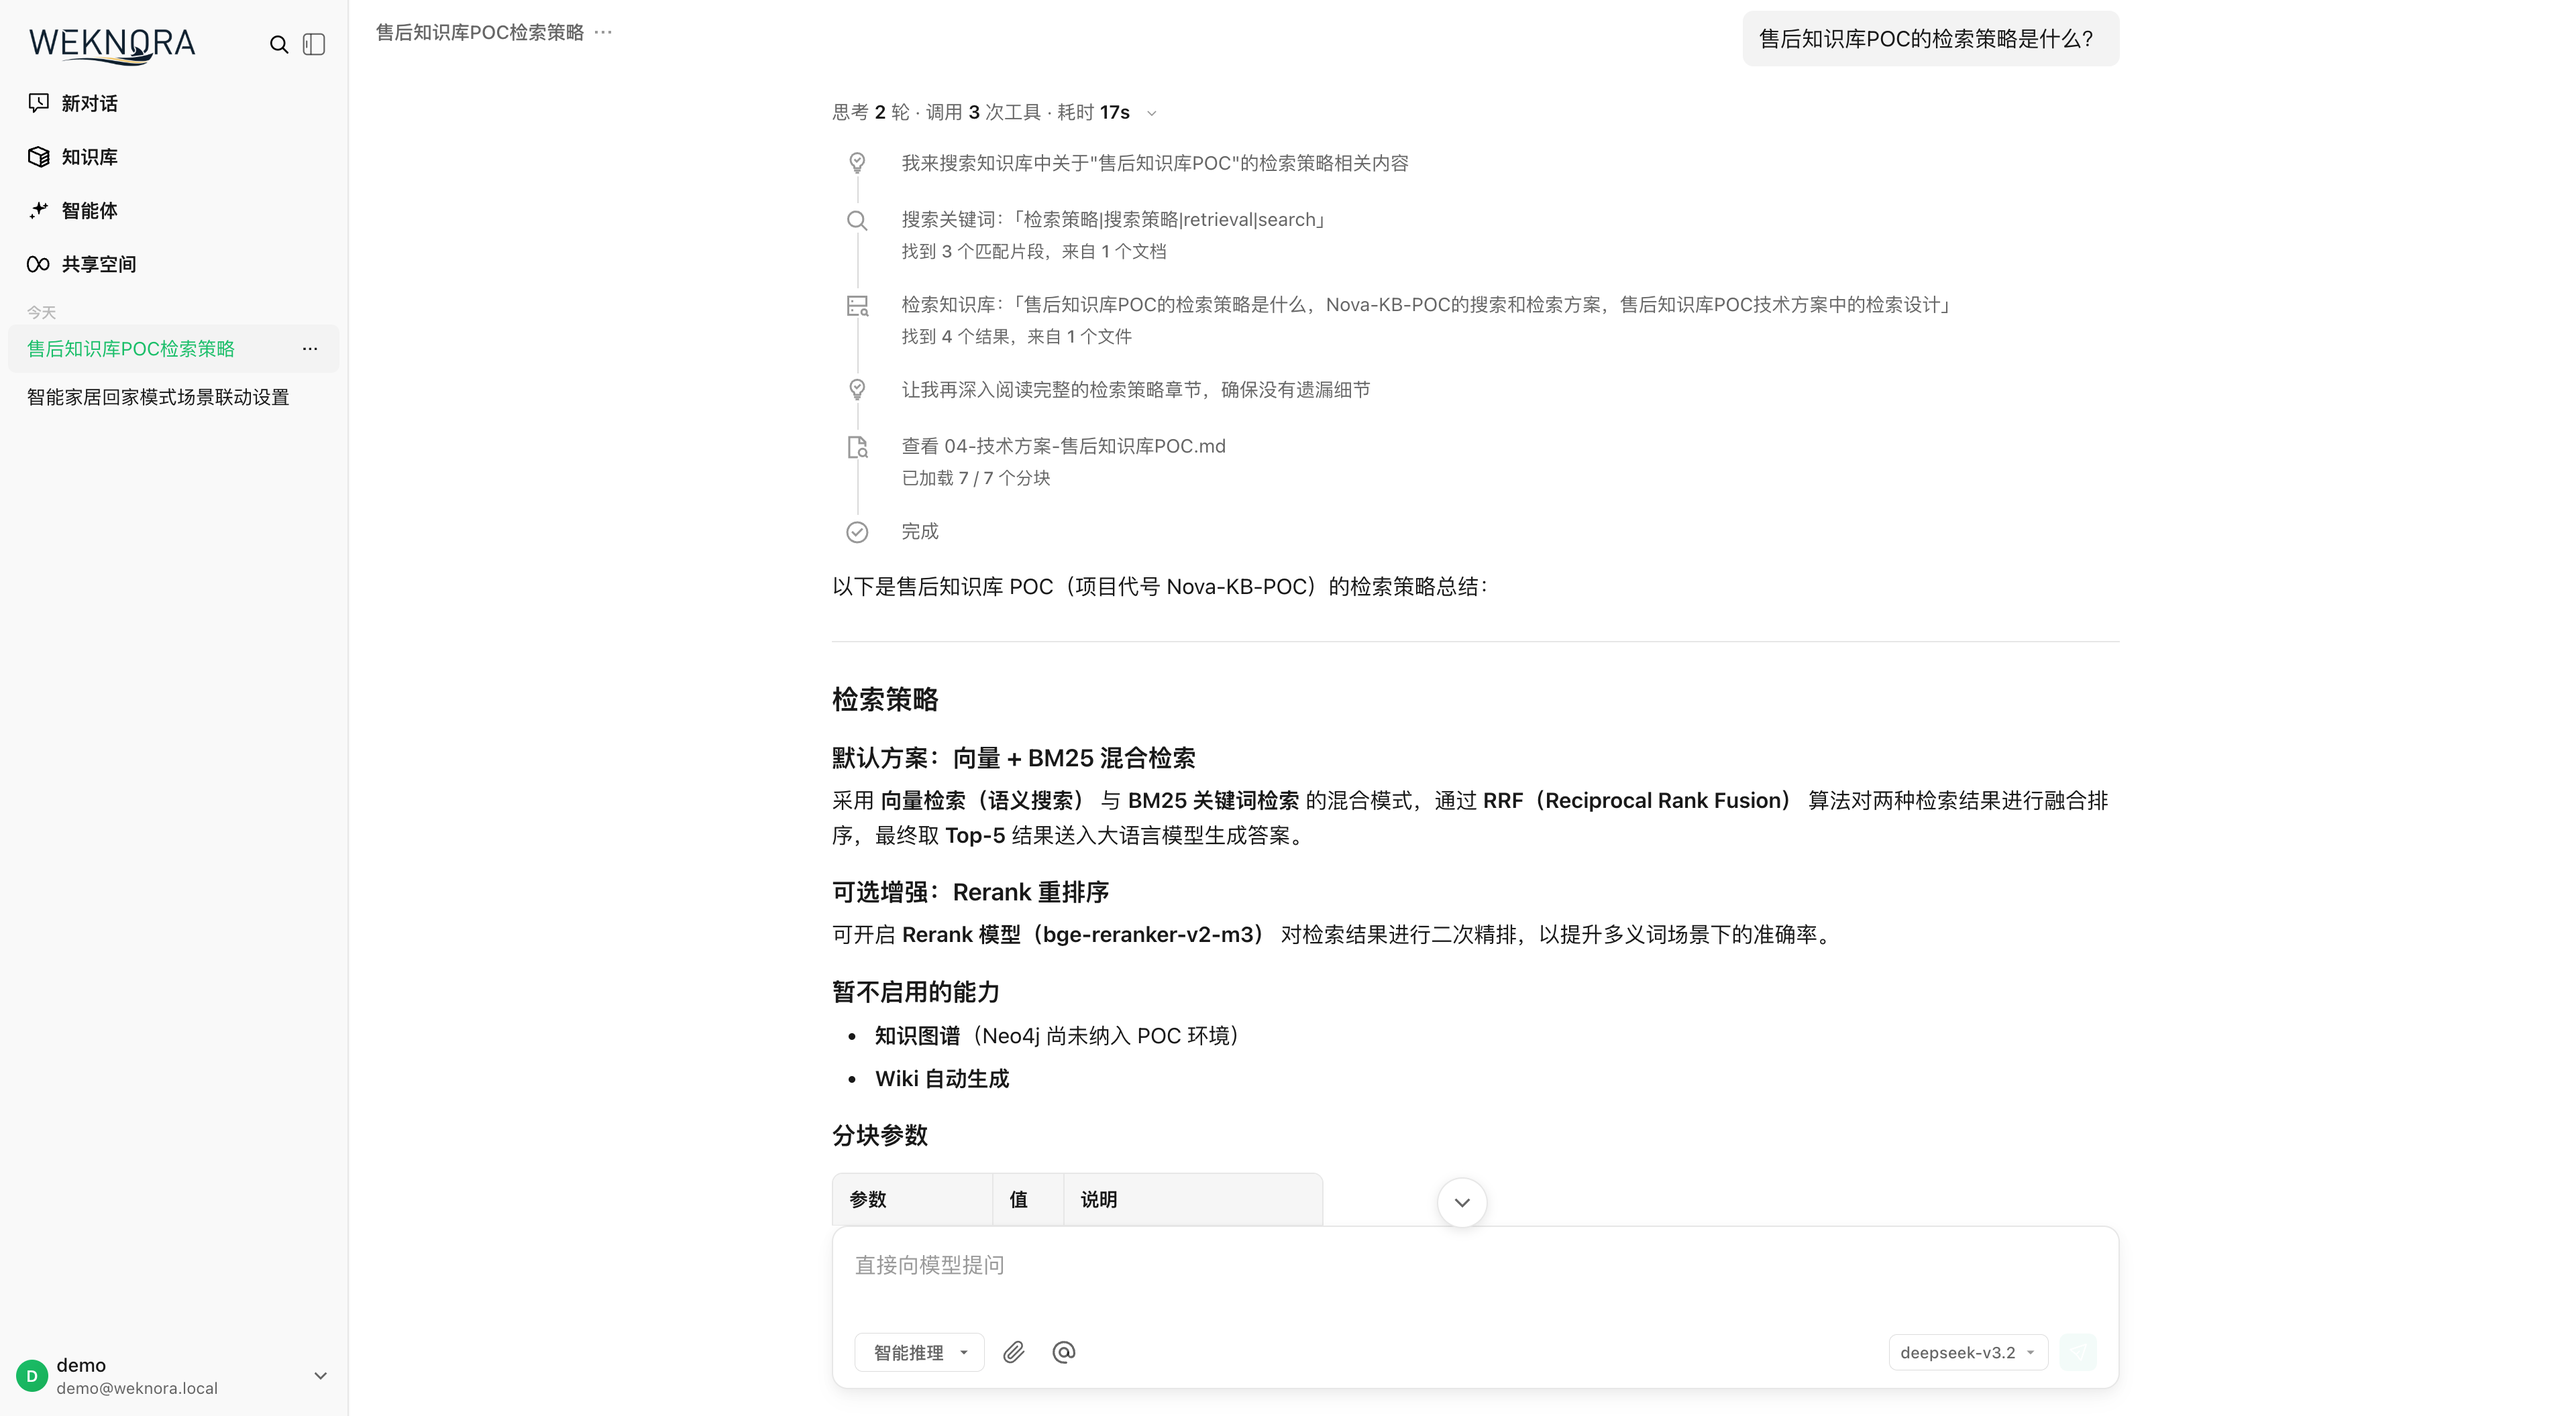
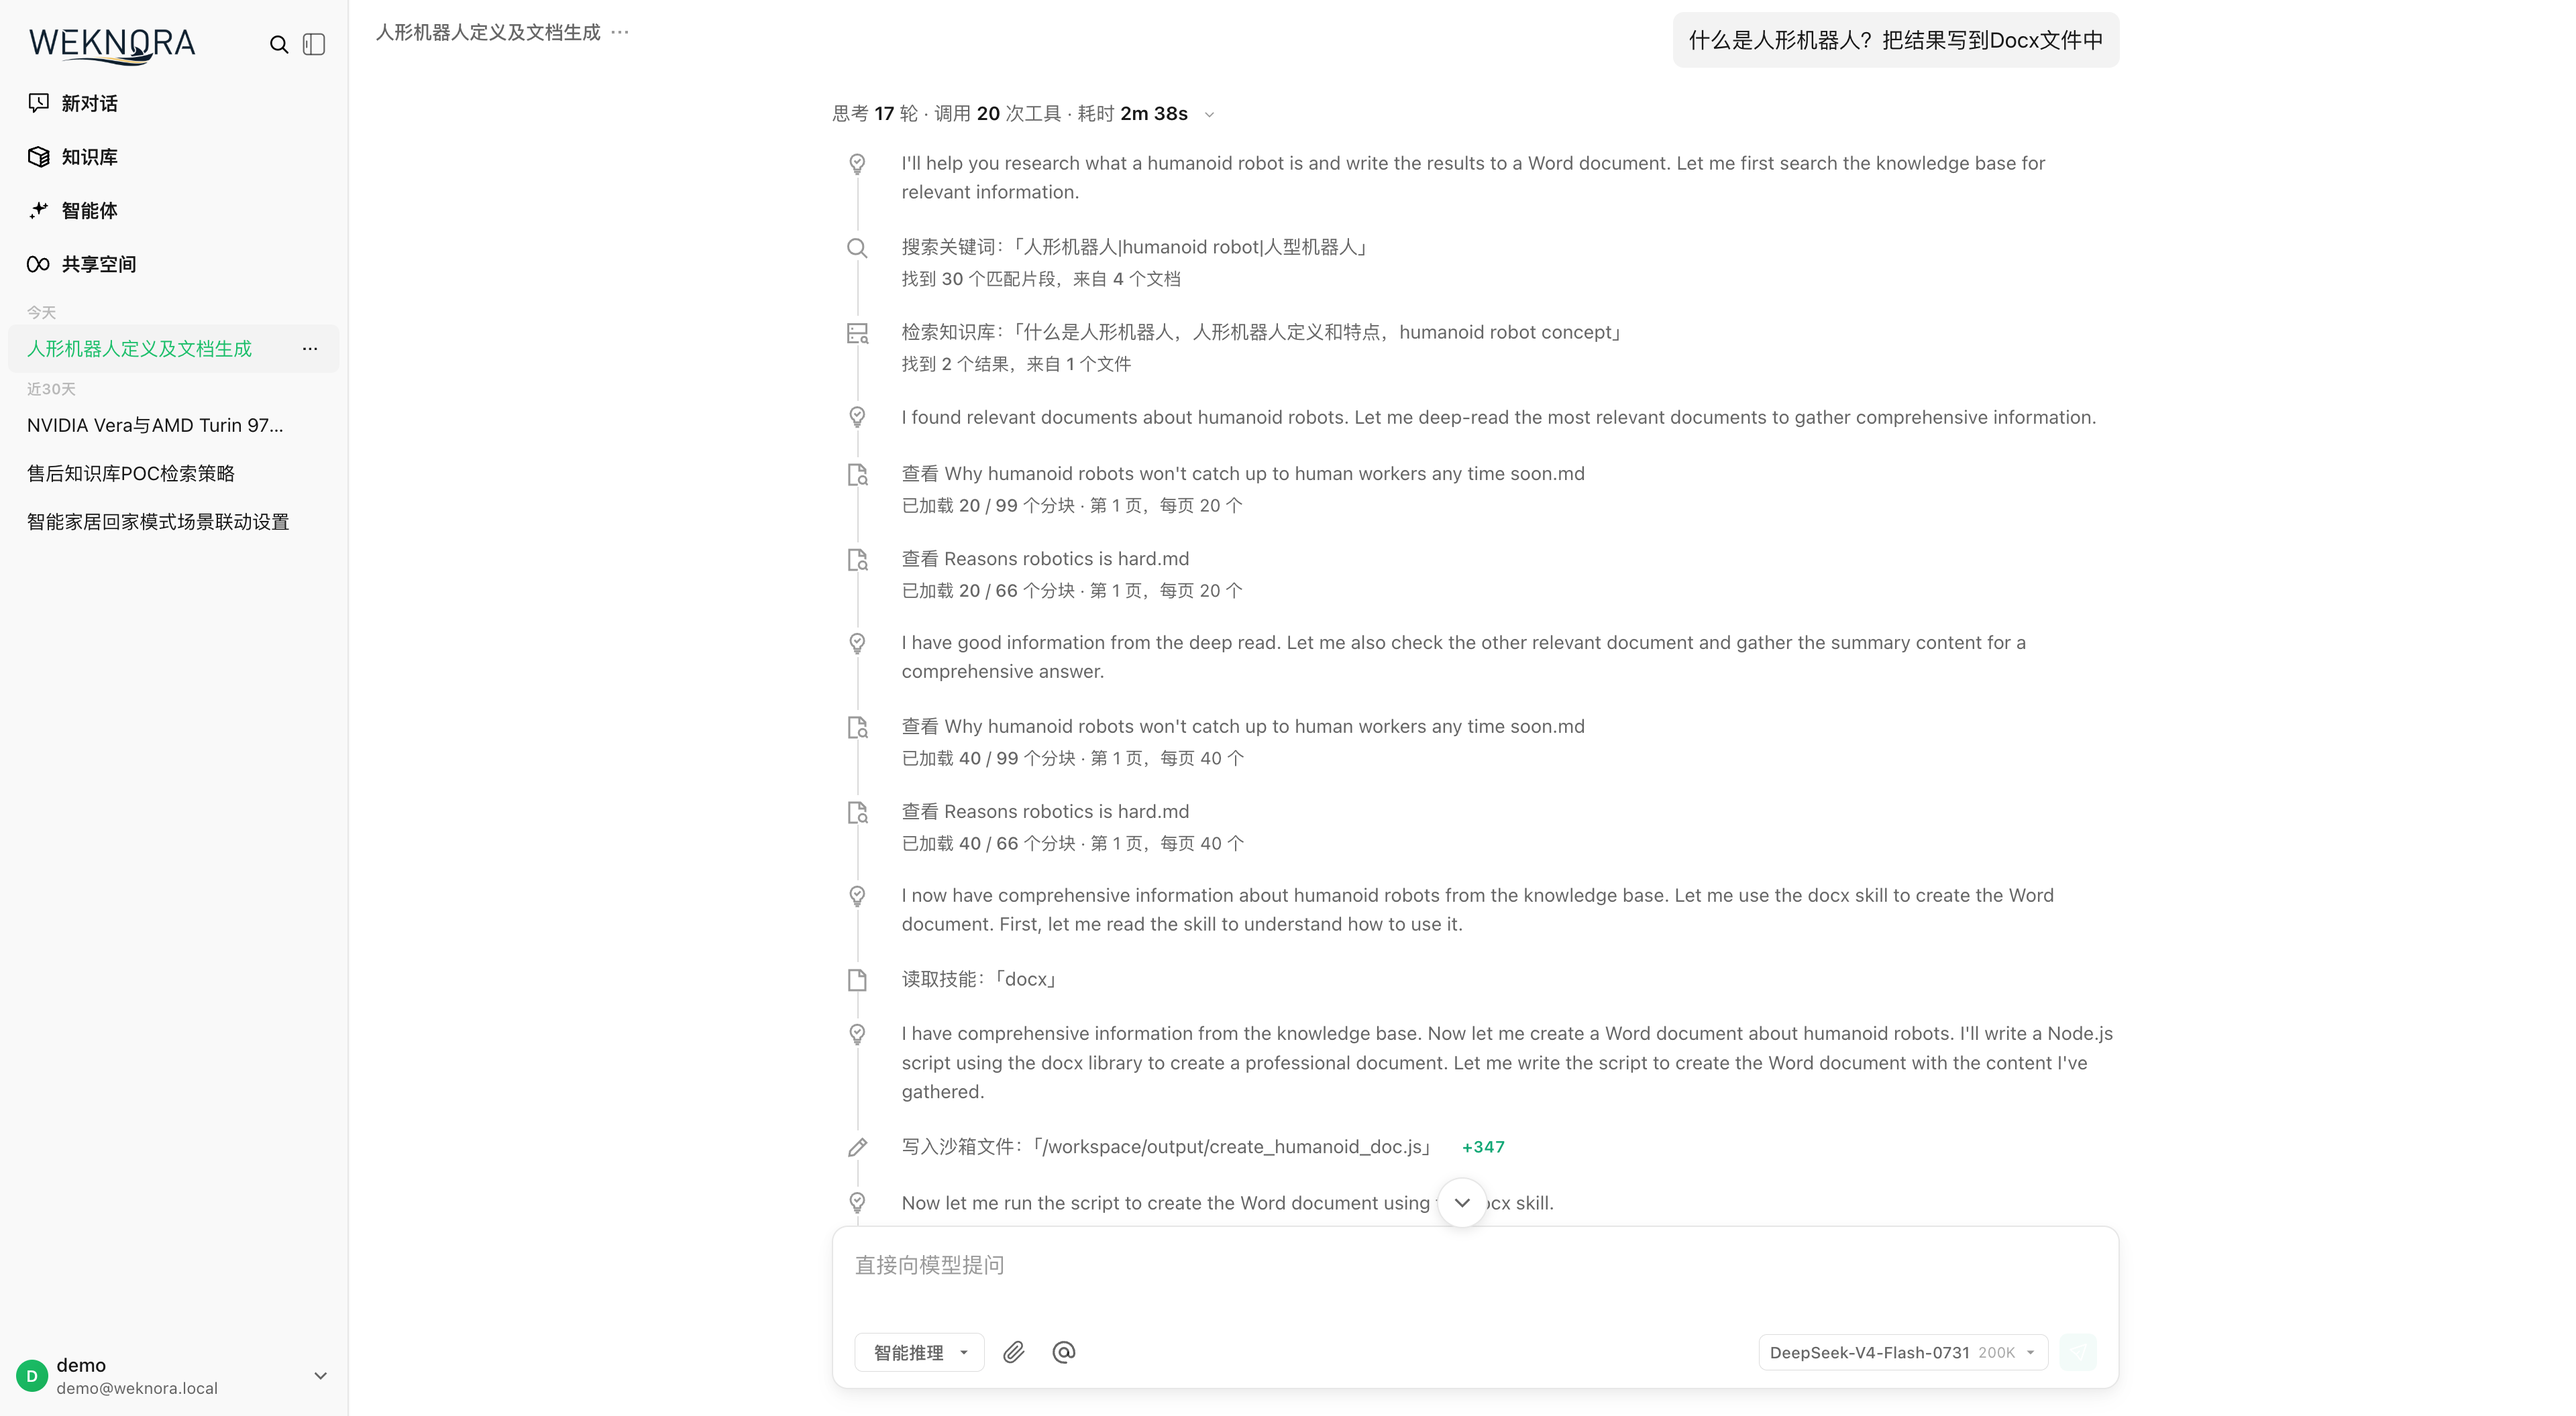
docs: refresh v0.8.0 showcase screenshots and drop star-history
Lead the README gallery with real skill-sandbox conversation shots, and remove the star-history embed while GitHub star data is unavailable.

diff --git a/README_KO.md b/README_KO.md
@@ -84,6 +84,13 @@ Feishu, GitLab, Tencent IMA, Notion, Yuque 등 외부 플랫폼에서 지식 자
 
 <table>
   <tr>
+    <td colspan="2" align="center"><b>🛠 스킬 샌드박스 대화 · Word 생성 및 미리보기</b><br/><img src="./docs/images/skill-sandbox-chat.png" alt="스킬 샌드박스 대화: Word 문서 생성 및 미리보기" width="100%"></td>
+  </tr>
+  <tr>
+    <td width="50%" align="center"><b>📦 스킬 카탈로그 · E2B 샌드박스에 설치</b><br/><img src="./docs/images/skill-catalog.png" alt="워크스페이스 스킬 카탈로그: docx / pptx / pdf가 E2B에 설치됨" width="100%"></td>
+    <td width="50%" align="center"><b>🤖 Agent 모드 · 검색, 스킬 읽기, 샌드박스 파일 쓰기</b><br/><img src="./docs/images/agent-qa.png" alt="Agent가 지식베이스를 검색하고 docx 스킬을 읽은 뒤 샌드박스에 스크립트를 씀" width="100%"></td>
+  </tr>
+  <tr>
     <td colspan="2" align="center"><b>💬 지능형 Q&A 대화</b><br/><img src="./docs/images/qa.png" alt="지능형 Q&A 대화" width="100%"></td>
   </tr>
   <tr>
@@ -96,10 +103,7 @@ Feishu, GitLab, Tencent IMA, Notion, Yuque 등 외부 플랫폼에서 지식 자
   </tr>
   <tr>
     <td width="50%" align="center"><b>📁 폴더 트리 및 일괄 작업</b><br/><img src="./docs/images/kb-document-list.png" alt="지식베이스 폴더 트리 및 일괄 작업" width="100%"></td>
-    <td width="50%" align="center"><b>🤖 Agent 모드 · 도구 호출 과정</b><br/><img src="./docs/images/agent-qa.png" alt="Agent 모드 도구 호출 과정" width="100%"></td>
-  </tr>
-  <tr>
-    <td colspan="2" align="center"><b>🔭 관측 가능성 · Langfuse Tracing</b><br/><img src="./docs/images/langfuse.png" alt="Langfuse Tracing" width="100%"></td>
+    <td width="50%" align="center"><b>🔭 관측 가능성 · Langfuse Tracing</b><br/><img src="./docs/images/langfuse.png" alt="Langfuse Tracing" width="100%"></td>
   </tr>
 </table>
 
@@ -338,13 +342,3 @@ make dev-frontend
 
 이 프로젝트는 [MIT License](./LICENSE)로 배포됩니다.
 적절한 저작권 고지를 유지하는 조건으로 코드를 자유롭게 사용, 수정, 배포할 수 있습니다.
-
-## 📈 프로젝트 통계
-
-<a href="https://www.star-history.com/#Tencent/WeKnora&type=date&legend=top-left">
- <picture>
-   <source media="(prefers-color-scheme: dark)" srcset="https://api.star-history.com/svg?repos=Tencent/WeKnora&type=date&theme=dark&legend=top-left" />
-   <source media="(prefers-color-scheme: light)" srcset="https://api.star-history.com/svg?repos=Tencent/WeKnora&type=date&legend=top-left" />
-   <img alt="Star History Chart" src="https://api.star-history.com/svg?repos=Tencent/WeKnora&type=date&legend=top-left" />
- </picture>
-</a>

diff --git a/README.md b/README.md
@@ -85,6 +85,13 @@ The framework supports auto-syncing knowledge from Feishu, GitLab, Tencent IMA, 
 
 <table>
   <tr>
+    <td colspan="2" align="center"><b>🛠 Skill Sandbox Chat · generate and preview a Word file</b><br/><img src="./docs/images/skill-sandbox-chat.png" alt="Skill sandbox conversation generating and previewing a Word document" width="100%"></td>
+  </tr>
+  <tr>
+    <td width="50%" align="center"><b>📦 Skill Catalog · install onto an E2B sandbox</b><br/><img src="./docs/images/skill-catalog.png" alt="Workspace skill catalog with docx pptx pdf installed on E2B" width="100%"></td>
+    <td width="50%" align="center"><b>🤖 Agent Mode · search, read a skill, write sandbox files</b><br/><img src="./docs/images/agent-qa.png" alt="Agent searching the knowledge base, reading the docx skill, and writing a sandbox script" width="100%"></td>
+  </tr>
+  <tr>
     <td colspan="2" align="center"><b>💬 Intelligent Q&A Conversation</b><br/><img src="./docs/images/qa.png" alt="Intelligent Q&A Conversation" width="100%"></td>
   </tr>
   <tr>
@@ -97,10 +104,7 @@ The framework supports auto-syncing knowledge from Feishu, GitLab, Tencent IMA, 
   </tr>
   <tr>
     <td width="50%" align="center"><b>📁 Folder Tree & Batch Operations</b><br/><img src="./docs/images/kb-document-list.png" alt="Knowledge Base Folder Tree and Batch Operations" width="100%"></td>
-    <td width="50%" align="center"><b>🤖 Agent Mode · Tool Call Process</b><br/><img src="./docs/images/agent-qa.png" alt="Agent Mode Tool Call Process" width="100%"></td>
-  </tr>
-  <tr>
-    <td colspan="2" align="center"><b>🔭 Observability · Langfuse Tracing</b><br/><img src="./docs/images/langfuse.png" alt="Observability Langfuse Tracing" width="100%"></td>
+    <td width="50%" align="center"><b>🔭 Observability · Langfuse Tracing</b><br/><img src="./docs/images/langfuse.png" alt="Observability Langfuse Tracing" width="100%"></td>
   </tr>
 </table>
 
@@ -377,13 +381,3 @@ Thanks to these excellent contributors:
 
 This project is licensed under the [MIT License](./LICENSE).
 You are free to use, modify, and distribute the code with proper attribution.
-
-## 📈 Project Statistics
-
-<a href="https://www.star-history.com/#Tencent/WeKnora&type=date&legend=top-left">
- <picture>
-   <source media="(prefers-color-scheme: dark)" srcset="https://api.star-history.com/svg?repos=Tencent/WeKnora&type=date&theme=dark&legend=top-left" />
-   <source media="(prefers-color-scheme: light)" srcset="https://api.star-history.com/svg?repos=Tencent/WeKnora&type=date&legend=top-left" />
-   <img alt="Star History Chart" src="https://api.star-history.com/svg?repos=Tencent/WeKnora&type=date&legend=top-left" />
- </picture>
-</a>

diff --git a/README_CN.md b/README_CN.md
@@ -84,6 +84,13 @@
 
 <table>
   <tr>
+    <td colspan="2" align="center"><b>🛠 沙箱技能对话 · 生成并预览 Word</b><br/><img src="./docs/images/skill-sandbox-chat.png" alt="沙箱技能对话：生成并预览 Word 文档" width="100%"></td>
+  </tr>
+  <tr>
+    <td width="50%" align="center"><b>📦 技能目录 · 安装到 E2B 沙箱</b><br/><img src="./docs/images/skill-catalog.png" alt="空间技能目录：docx / pptx / pdf 已安装到 E2B" width="100%"></td>
+    <td width="50%" align="center"><b>🤖 Agent 模式 · 检索、读技能、写入沙箱文件</b><br/><img src="./docs/images/agent-qa.png" alt="Agent 检索知识库、读取 docx 技能并写入沙箱脚本" width="100%"></td>
+  </tr>
+  <tr>
     <td colspan="2" align="center"><b>💬 智能问答对话</b><br/><img src="./docs/images/qa.png" alt="智能问答对话" width="100%"></td>
   </tr>
   <tr>
@@ -96,10 +103,7 @@
   </tr>
   <tr>
     <td width="50%" align="center"><b>📁 文件夹树与批量操作</b><br/><img src="./docs/images/kb-document-list.png" alt="知识库文件夹树与批量操作" width="100%"></td>
-    <td width="50%" align="center"><b>🤖 Agent 模式 · 工具调用过程</b><br/><img src="./docs/images/agent-qa.png" alt="Agent 模式工具调用过程" width="100%"></td>
-  </tr>
-  <tr>
-    <td colspan="2" align="center"><b>🔭 监控可观测性 · Langfuse Tracing</b><br/><img src="./docs/images/langfuse.png" alt="Langfuse Tracing" width="100%"></td>
+    <td width="50%" align="center"><b>🔭 监控可观测性 · Langfuse Tracing</b><br/><img src="./docs/images/langfuse.png" alt="Langfuse Tracing" width="100%"></td>
   </tr>
 </table>
 
@@ -360,13 +364,3 @@ make test
 
 本项目基于 [MIT](./LICENSE) 协议发布。
 你可以自由使用、修改和分发本项目代码，但需保留原始版权声明。
-
-## 📈 项目统计
-
-<a href="https://www.star-history.com/#Tencent/WeKnora&type=date&legend=top-left">
- <picture>
-   <source media="(prefers-color-scheme: dark)" srcset="https://api.star-history.com/svg?repos=Tencent/WeKnora&type=date&theme=dark&legend=top-left" />
-   <source media="(prefers-color-scheme: light)" srcset="https://api.star-history.com/svg?repos=Tencent/WeKnora&type=date&legend=top-left" />
-   <img alt="Star History Chart" src="https://api.star-history.com/svg?repos=Tencent/WeKnora&type=date&legend=top-left" />
- </picture>
-</a>
